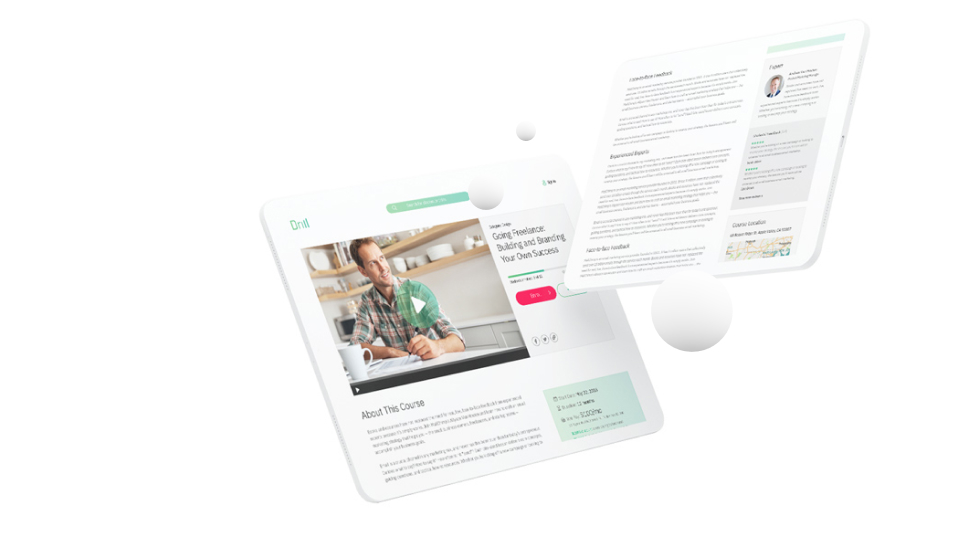
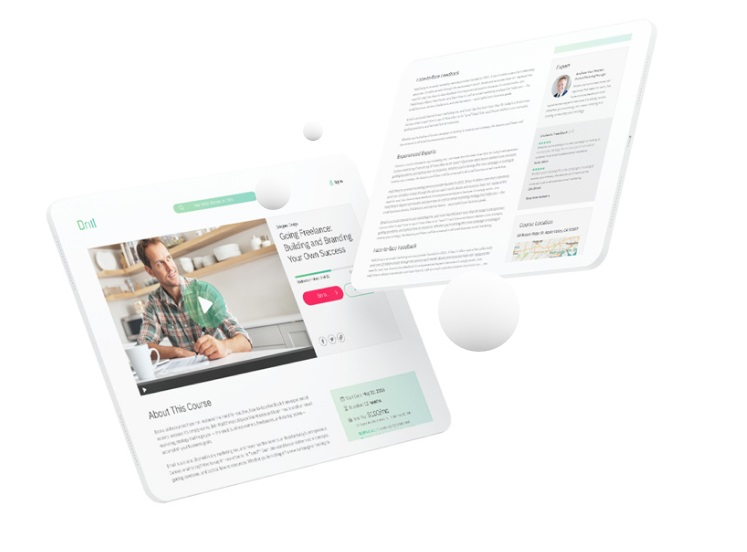
section images updated

diff --git a/css/app.css b/css/app.css
@@ -13795,7 +13795,7 @@ form select.form-control {
           line-height: 28px;
           color: #888888; }
     .teacher .capture__sections section .bg {
-      background-position: center;
+      background-position: left center;
       background-repeat: no-repeat;
       background-size: auto 100%; }
       .teacher .capture__sections section .bg img {
@@ -13961,7 +13961,7 @@ form select.form-control {
     box-shadow: 0px 5px 15px 0px rgba(0, 0, 0, 0.15), 0px 0px 10px 0px rgba(0, 0, 0, 0.1);
             }
     .student .capture__sections section .bg {
-      background-position: center;
+      background-position: left center;
       background-repeat: no-repeat;
       background-size: auto 100%; }
       .student .capture__sections section .bg img {
